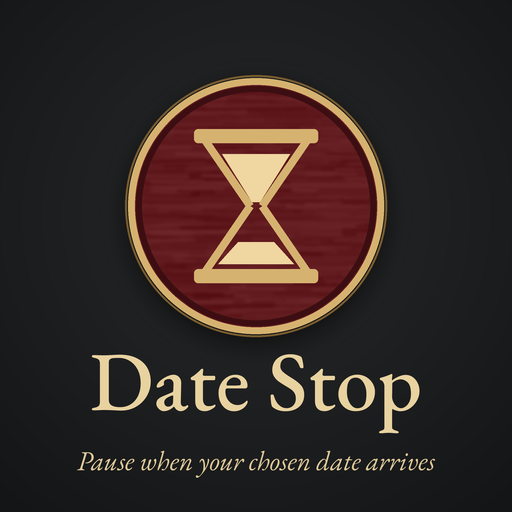
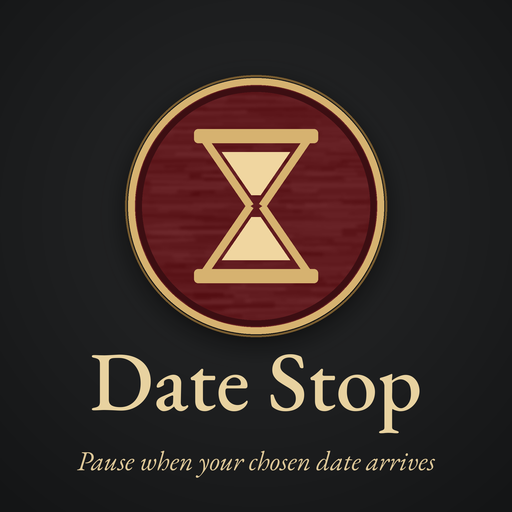
Thumbnail: symmetric sand in the hourglass
Claude-Session: https://claude.ai/code/session_01UbN6sHAfCGANqv6aefGe6y

Changed region(s): [[0.4062, 0.3438, 0.5938, 0.5312], [0.4375, 0.2812, 0.5625, 0.3438]]

diff --git a/tools/make_thumbnail.py b/tools/make_thumbnail.py
@@ -76,9 +76,15 @@ def hourglass(img, cx, cy):
     for sx in (-1, 1):
         d.line([cx + sx * w, top, cx + sx * 6 * S, cy], fill=GOLD, width=lw)
         d.line([cx + sx * 6 * S, cy, cx + sx * w, bot], fill=GOLD, width=lw)
-    # Sand
-    d.polygon([cx - 34 * S, top + 18 * S, cx + 34 * S, top + 18 * S, cx + 4 * S, cy - 4 * S, cx - 4 * S, cy - 4 * S], fill=GOLD_LIGHT)
-    d.polygon([cx - 38 * S, bot - 12 * S, cx + 38 * S, bot - 12 * S, cx + 18 * S, bot - 34 * S, cx - 18 * S, bot - 34 * S], fill=GOLD_LIGHT)
+    # Sand: the same shape in both bulbs, mirrored about the neck, nearly filling each
+    inset = lw / 2 + 5 * S
+    def edge(y):  # glass half-width at y, minus the inset
+        return 6 * S + (w - 6 * S) * abs(y - cy) / h - inset
+    y_far, y_near = 16 * S, 11 * S  # distance from the plates / the neck, as offsets from cy
+    for sign in (-1, 1):
+        ya = cy + sign * (h - y_far)   # far edge of the sand (flat)
+        yb = cy + sign * y_near        # near edge, at the neck
+        d.polygon([cx - edge(ya), ya, cx + edge(ya), ya, cx + edge(yb), yb, cx - edge(yb), yb], fill=GOLD_LIGHT)
 
 
 def text(img):
